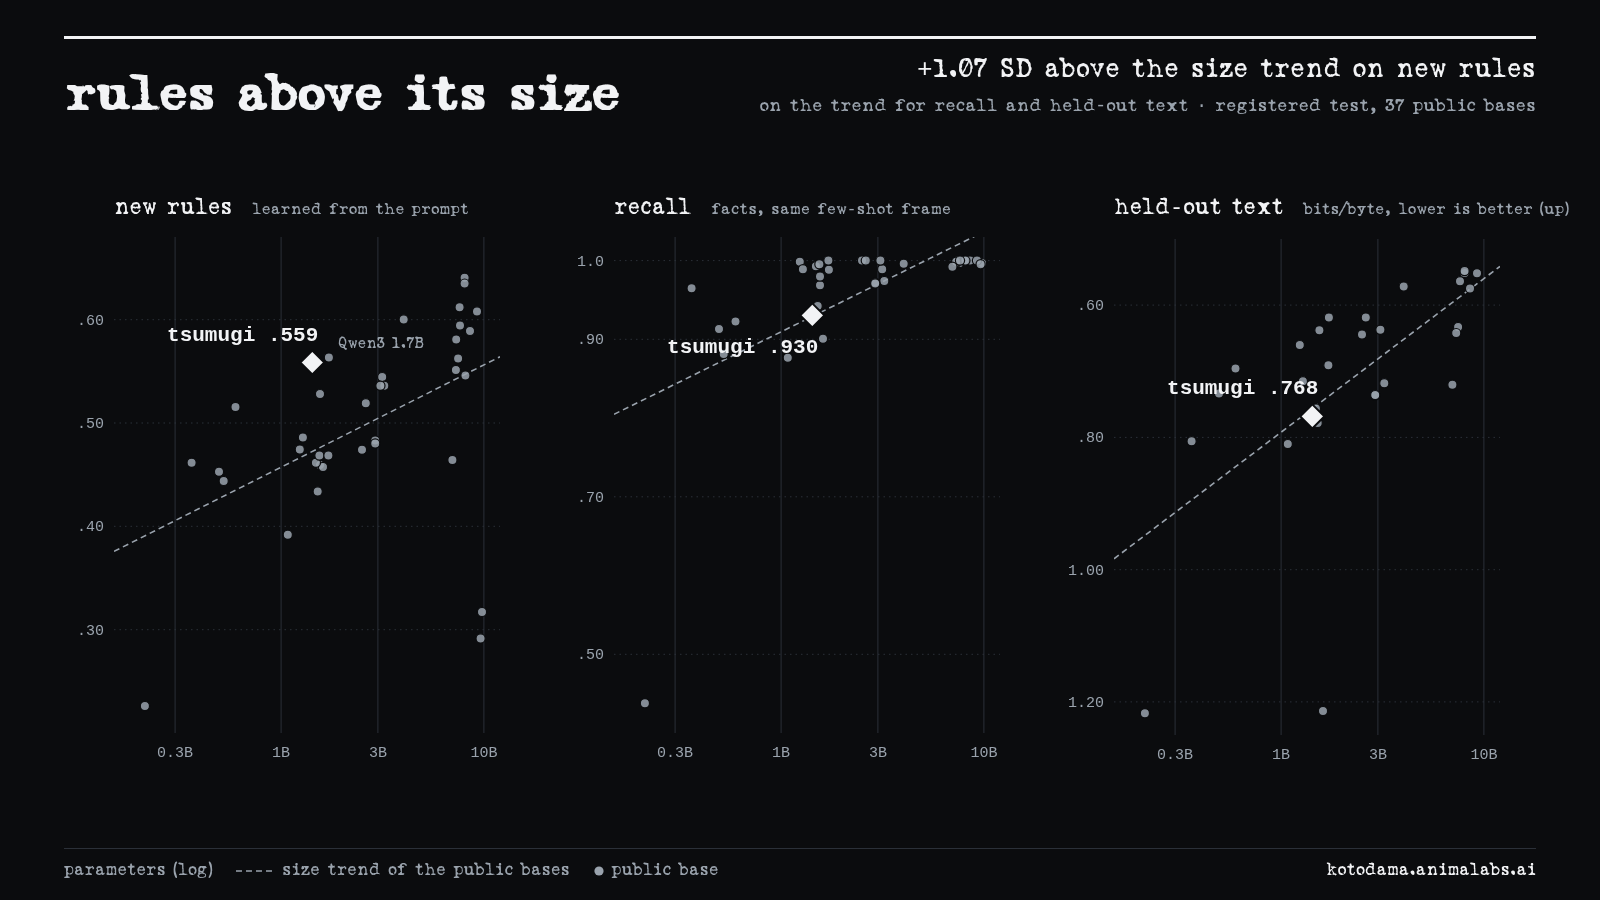
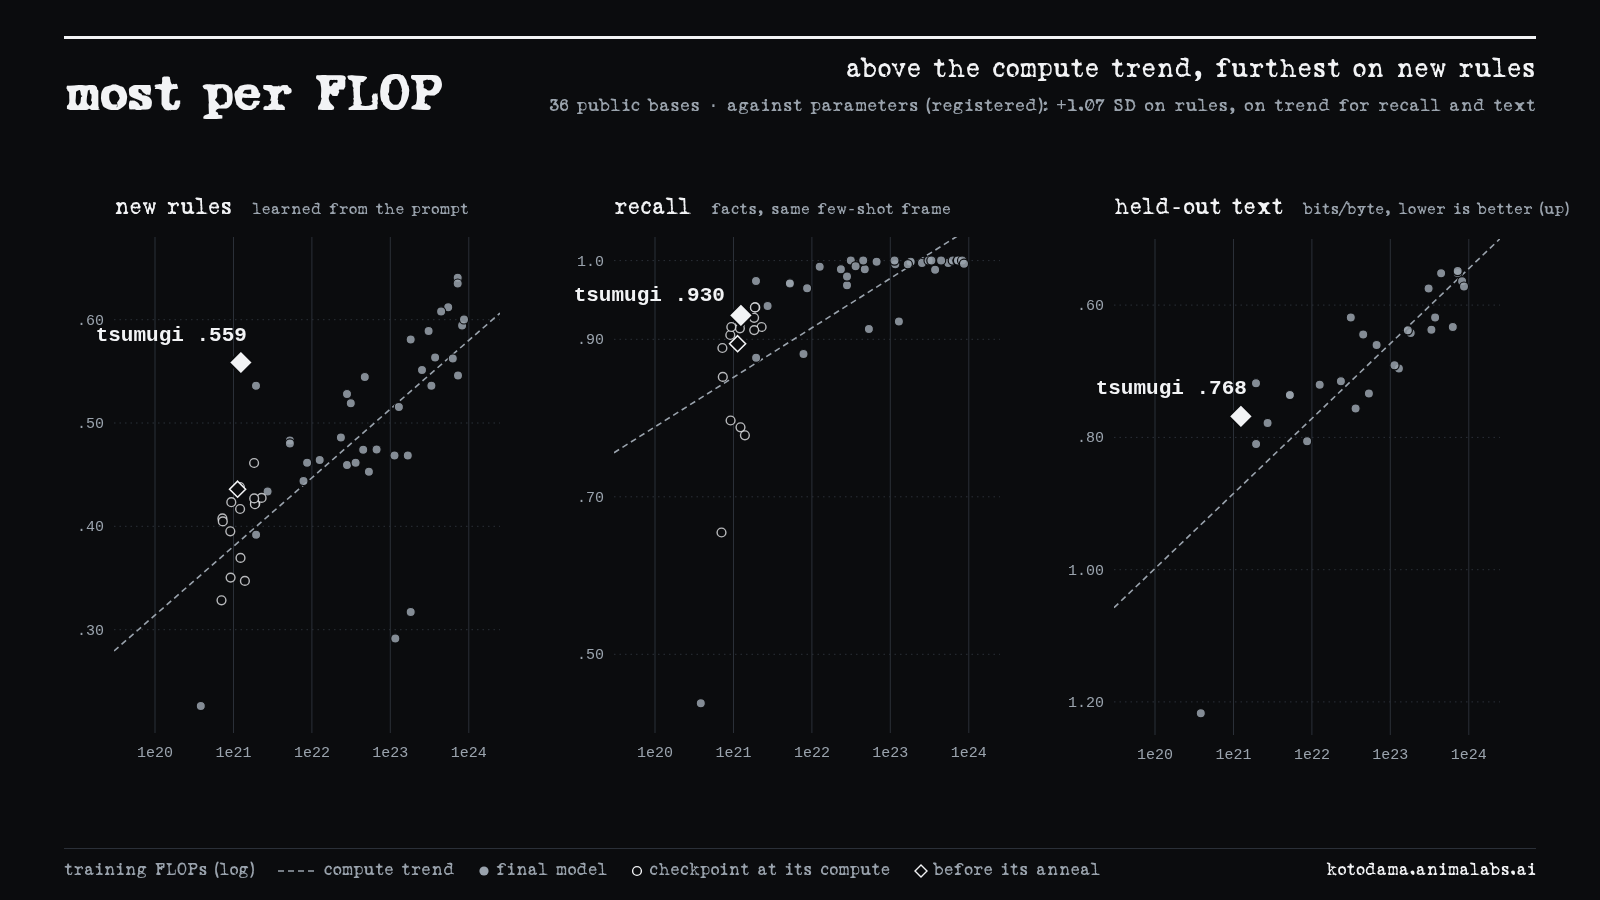
announcement figure: rule learning against training compute, with the 15 public checkpoints at tsumugi's compute (open circles) and its unannealed trunk (open diamond), per PREREG icl-matched-compute (P1 holds, P2 falsified: the caption says the lead comes with the anneal); caption and alt text rewr
Claude-Session: https://claude.ai/code/session_01H3VSEPPyocimLV9Q4GkTH7

diff --git a/site/index.html b/site/index.html
@@ -102,10 +102,13 @@ footer .wrap { display: flex; flex-wrap: wrap; gap: 8px 20px; justify-content: s
   </header>
 
   <figure class="plate">
-    <a href="announce-data/figure.png"><img src="announce-data/figure.png" width="1600" height="900" alt="Three panels against model size, for 37 public base models: new rules learned from the prompt, recall of facts in the same few-shot frame, and held-out text in bits per byte. A dashed line marks each panel's size trend. kotodama-tsumugi sits above the trend on new rules (.559) and on it for recall (.930) and held-out text (.768)."></a>
-    <figcaption>In-prompt rule learning, recall and held-out text against model size, for 37 public base models from 0.2B to
-    9.8B parameters. The dashed line is each panel's size trend. kotodama-tsumugi is the white diamond: above the trend on
-    new rules, on it for the other two.</figcaption>
+    <a href="announce-data/figure.png"><img src="announce-data/figure.png" width="1600" height="900" alt="Three panels against training compute: new rules learned from the prompt, recall of facts in the same few-shot frame, and held-out text in bits per byte. Filled dots are 36 public base models, open circles 15 public checkpoints that had spent the same compute as kotodama-tsumugi. kotodama-tsumugi sits above the compute trend on all three, furthest on new rules (.559, against at most .461 for the matched checkpoints). An open diamond marks its unannealed trunk (.436)."></a>
+    <figcaption>In-prompt rule learning, recall and held-out text against training compute. Filled dots are 36 public base
+    models; open circles are 15 public checkpoints that had spent the same compute as kotodama-tsumugi. The dashed line is
+    each panel's compute trend. kotodama-tsumugi, the white diamond, is above it on all three and furthest on new rules:
+    .559, against .461 for the best matched checkpoint. Its unannealed trunk, the open diamond, scores .436 and is level
+    with them, so much of that lead comes with its final anneal. Against model size, the registered test puts it 1.07
+    standard deviations above the trend on new rules, and on the trend for recall and held-out text.</figcaption>
   </figure>
 
   <h2>What it does</h2>
@@ -196,7 +199,7 @@ footer .wrap { display: flex; flex-wrap: wrap; gap: 8px 20px; justify-content: s
 </div>
 <footer><div class="wrap">
   <span>Companion pages: <a href="https://huggingface.co/LuxiaSL/kotodama-tsumugi-1b">the model card</a> · <a href="binding-atlas">Binding Atlas</a>, every model against every referent-binding test · <a href="threads">Threads</a>, inside kotodama-tsumugi · <a href="empty-document">An Empty Document</a>.</span>
-  <span class="num" id="stamp">build 2026-11-06 01:06 UTC</span>
+  <span class="num" id="stamp">build 2026-11-06 01:32 UTC</span>
 </div></footer>
 </body>
 </html>

diff --git a/page/announce_page.html b/page/announce_page.html
@@ -98,10 +98,13 @@ footer .wrap { display: flex; flex-wrap: wrap; gap: 8px 20px; justify-content: s
   </header>
 
   <figure class="plate">
-    <a href="__FIGURE__"><img src="__FIGURE__" width="1600" height="900" alt="Three panels against model size, for 37 public base models: new rules learned from the prompt, recall of facts in the same few-shot frame, and held-out text in bits per byte. A dashed line marks each panel's size trend. kotodama-tsumugi sits above the trend on new rules (.559) and on it for recall (.930) and held-out text (.768)."></a>
-    <figcaption>In-prompt rule learning, recall and held-out text against model size, for 37 public base models from 0.2B to
-    9.8B parameters. The dashed line is each panel's size trend. kotodama-tsumugi is the white diamond: above the trend on
-    new rules, on it for the other two.</figcaption>
+    <a href="__FIGURE__"><img src="__FIGURE__" width="1600" height="900" alt="Three panels against training compute: new rules learned from the prompt, recall of facts in the same few-shot frame, and held-out text in bits per byte. Filled dots are 36 public base models, open circles 15 public checkpoints that had spent the same compute as kotodama-tsumugi. kotodama-tsumugi sits above the compute trend on all three, furthest on new rules (.559, against at most .461 for the matched checkpoints). An open diamond marks its unannealed trunk (.436)."></a>
+    <figcaption>In-prompt rule learning, recall and held-out text against training compute. Filled dots are 36 public base
+    models; open circles are 15 public checkpoints that had spent the same compute as kotodama-tsumugi. The dashed line is
+    each panel's compute trend. kotodama-tsumugi, the white diamond, is above it on all three and furthest on new rules:
+    .559, against .461 for the best matched checkpoint. Its unannealed trunk, the open diamond, scores .436 and is level
+    with them, so much of that lead comes with its final anneal. Against model size, the registered test puts it 1.07
+    standard deviations above the trend on new rules, and on the trend for recall and held-out text.</figcaption>
   </figure>
 
   <h2>What it does</h2>
